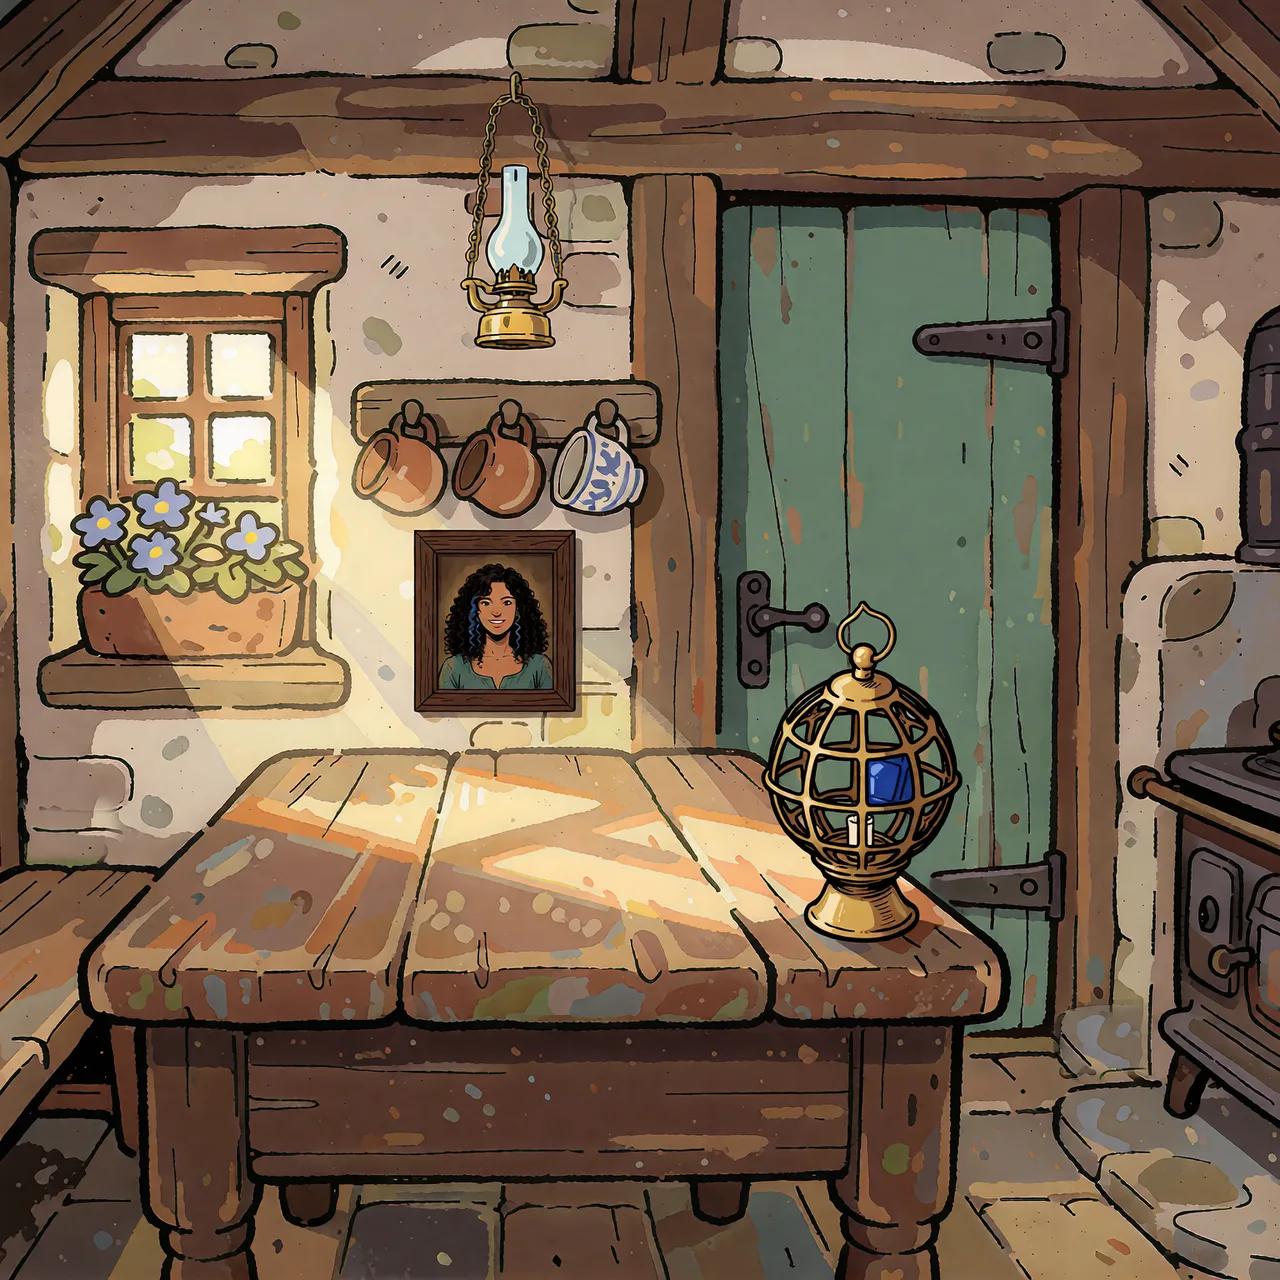
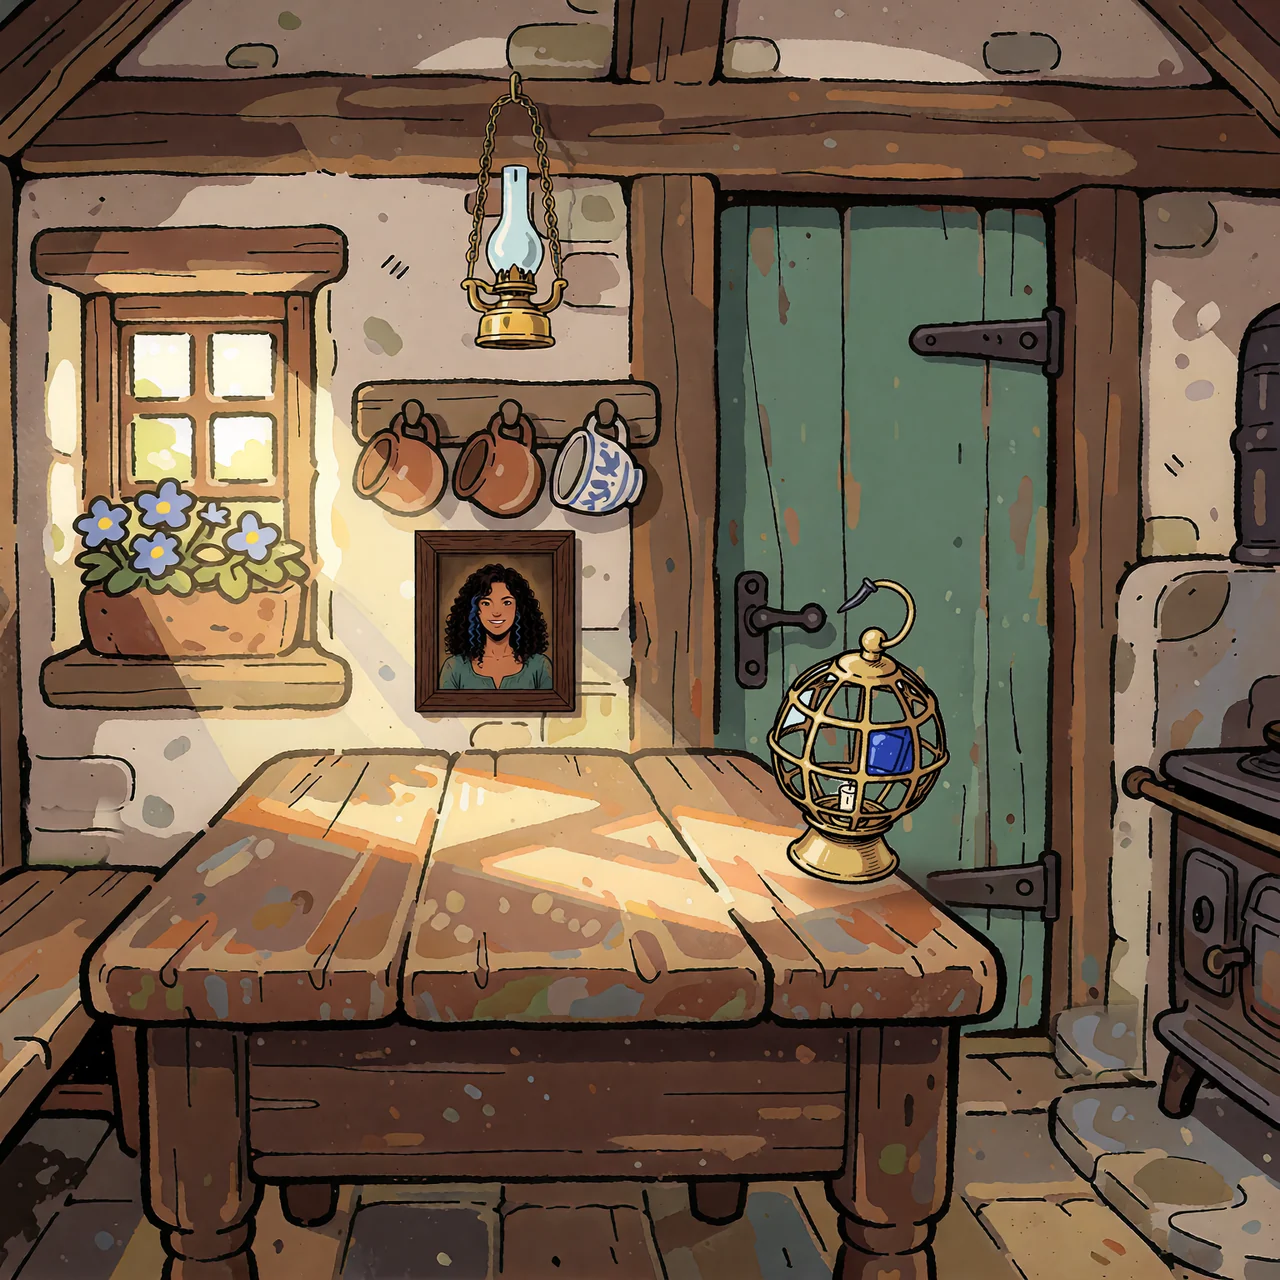
Walk 2: the approved kitchen picture, with the lantern's tap spot moved to fit it
The cutscene thread's draft 3 (the lantern with its hook handle); portrait and cup spots unchanged.

Claude-Session: https://claude.ai/code/session_01JTmPYBGE5RJi7qTbK5Qior

diff --git a/src/client/kitchen.ts b/src/client/kitchen.ts
@@ -8,8 +8,8 @@ import { card } from "./ending.js";
 
 /** The three things, as boxes on the picture (percent of its width and height). The picture is square
  *  and shown whole (black either side), so the boxes hold on any screen. From the cutscene art thread's
- *  draft (kitchen-tappable-walk2-draft-2.png, 1536 px): portrait 496,636–690,856; cup 655,485–785,625;
- *  lantern 910,720–1155,1130. */
+ *  picture (kitchen-tappable-walk2-draft-3.png, 1536 px, Ladi's yes on 24 Nov): portrait 496,636–690,856;
+ *  cup 655,485–785,625; lantern 925,692–1135,1062. */
 const px = (x0: number, y0: number, x1: number, y1: number) => [x0 / 15.36, y0 / 15.36, (x1 - x0) / 15.36, (y1 - y0) / 15.36] as const;
 export const KITCHEN = {
   slot: "walk-kitchen",
@@ -20,7 +20,7 @@ export const KITCHEN = {
   spots: [
     { id: "portrait", label: "Rosalind's portrait", box: px(496, 636, 690, 856), line: null },
     { id: "cup", label: "Her cup", box: px(655, 485, 785, 625), line: "Don't. That one stays on its hook." },
-    { id: "lantern", label: "The lantern", box: px(910, 720, 1155, 1130), line: "It was Mum's. It used to sit in the window." },
+    { id: "lantern", label: "The lantern", box: px(925, 692, 1135, 1062), line: "It was Mum's. It used to sit in the window." },
   ],
 } as const;
 

diff --git a/CREDITS.md b/CREDITS.md
@@ -25,7 +25,7 @@ subscription-only billing so no Spark was spent. Sources are in the project file
 | story/eye/*.webp and src/client/eye-rig.ts (the eye in run 1's ending) | The cutscene art thread's eye rig and layers (`production/story/v3/eye/`), approved by Ladi on 2026-11-22; layers converted to WebP |
 | story/*.webp (run 1's ending and run 2's opening pictures) | Drafts from the cast and cutscene art threads (`production/story/slots/` and `production/story/v3/`, 2026-11-23), not yet approved by Ladi; converted to WebP |
 | story/kindling-underside.webp, story/kindling-heart-small.webp, story/kindling-heart-big.webp, story/kindling-hearts.webp, story/kindling-eye-glint.webp (run 1's ending: the home island from below in its horseshoe shape, both hearts down to embers; the two hearts lit as separate layers; the sky from below with home in its new shape, approved by Ladi at 11:46 AM, "Islands from below lgtm"; and home's one light among them, the 2026-11-23 glint trimmed tighter) | Painted by the cutscene thread on Sogni, 2026-11-24 (`sogni/lanternfall/production/story/v4/`), with krea2_identity_edit_v1_2 on the subscription, 0 Spark, plus its own code, as that thread reports; it says Ladi approved the underside that day and chose two hearts. ❓ That thread has not read the model's licence terms, the same caveat as the run 8 stills. Converted to WebP, same size (1536 square) | Run 1's ending, over the rim and down the underside: the small heart under the Kindling ground lights first, then the big one at the tip; then the islands from below, home's light as bright as the score |
-| story/walk-kitchen.webp (Rook's kitchen, walk 2) | The cutscene art thread's draft (`production/story/part1/kitchen/kitchen-tappable-walk2-draft-2.png`, 2026-11-23), not yet approved by Ladi; the lantern handle is to be fixed in the final; converted to WebP at 1280 px |
+| story/walk-kitchen.webp (Rook's kitchen, walk 2) | The cutscene art thread's picture (`production/story/part1/kitchen/kitchen-tappable-walk2-draft-3.png`, 2026-11-24), the lantern with its approved hook handle; that thread reports Ladi's "Yes" at 11:47 AM on 2026-11-24 as covering it. ❓ It has not read the model's licence terms, the same caveat as its other pictures. Converted to WebP at 1280 px |
 | faces/lumi-delight-flash.webp | First draft from the cast art thread; Lumi's one open-mouth face in runs 1 and 2 |
 | faces/tilda-{neutral,tired,lost,asking,watching}.webp (Tilda's five faces for run 8) | Cut by the gameplay thread on 2026-11-24 from her approved sheet (the cast thread's approved board, option A), no new render (project files `gameplay/faces/`), 160 px WebP as delivered | Her bark bubbles and talk box in run 8, on Ladi's word ("Tilda needs her face in her bark bubbles"); which face goes with which line is the gameplay thread's mapping (`src/engine/moods.ts`) |
 | models/rook-house.glb (4x4, Granny's board) and rook-house-big.glb (9x9, the walking island) | Concept from z_image_turbo_bf16, then pixal3d_int8_i23d (image to 3D), 2026-11-23, Sogni Unlimited plan, 0 Spark. Levelled, slimmed to 25k triangles and paint re-baked by the maps and places thread (project files sogni/lanternfall/production/places/rook-house/, rook-house-a.glb and rook-house-a-9x9-hd.glb; Ladi picked A). The 9x9 walking-island copy: concept upscaled with rtx_vsr_pro, then pixal3d_int8_i23d at shape 1536 / texture 4096, 0 Spark |
